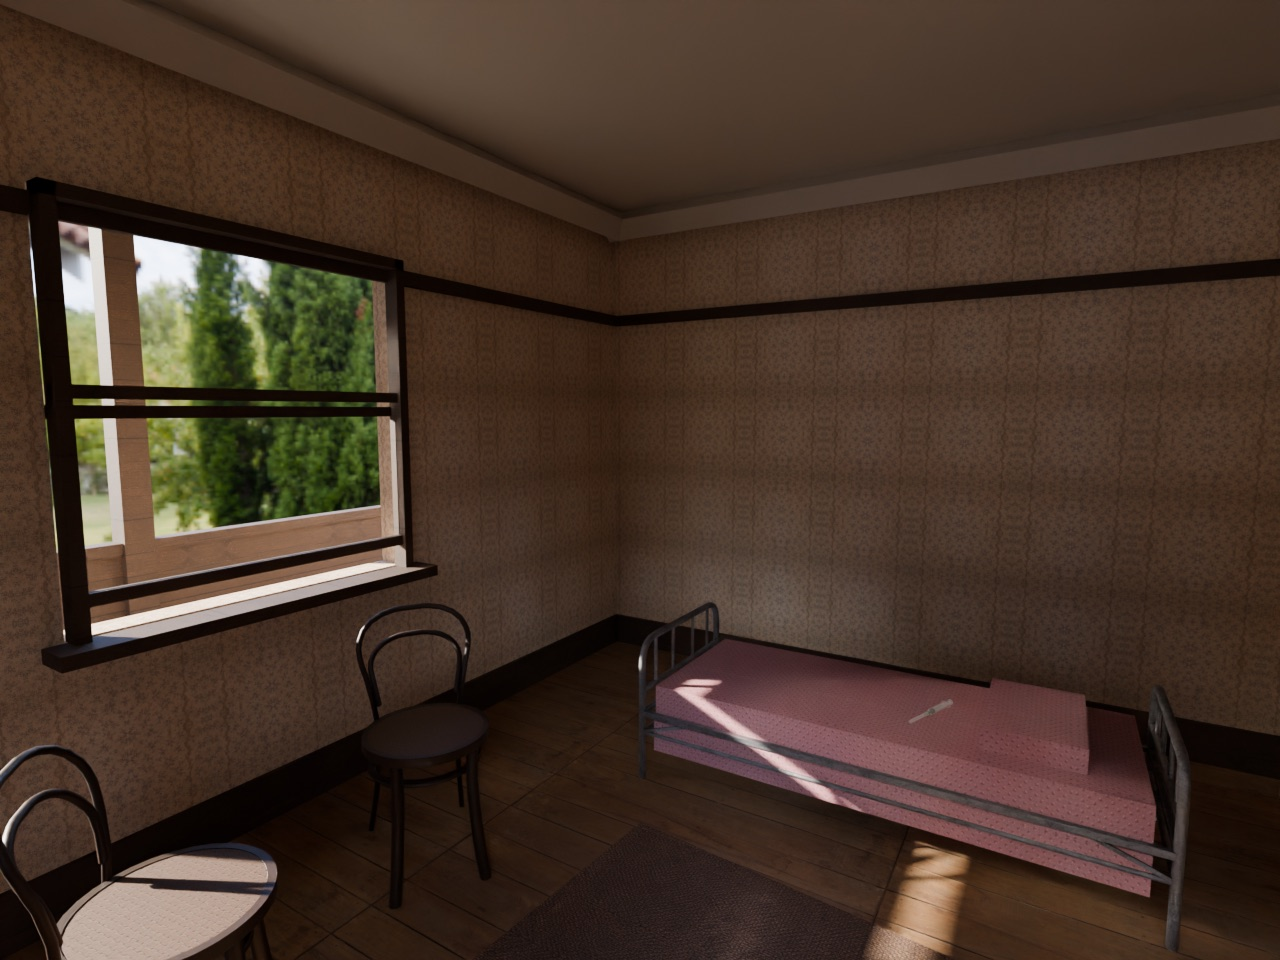
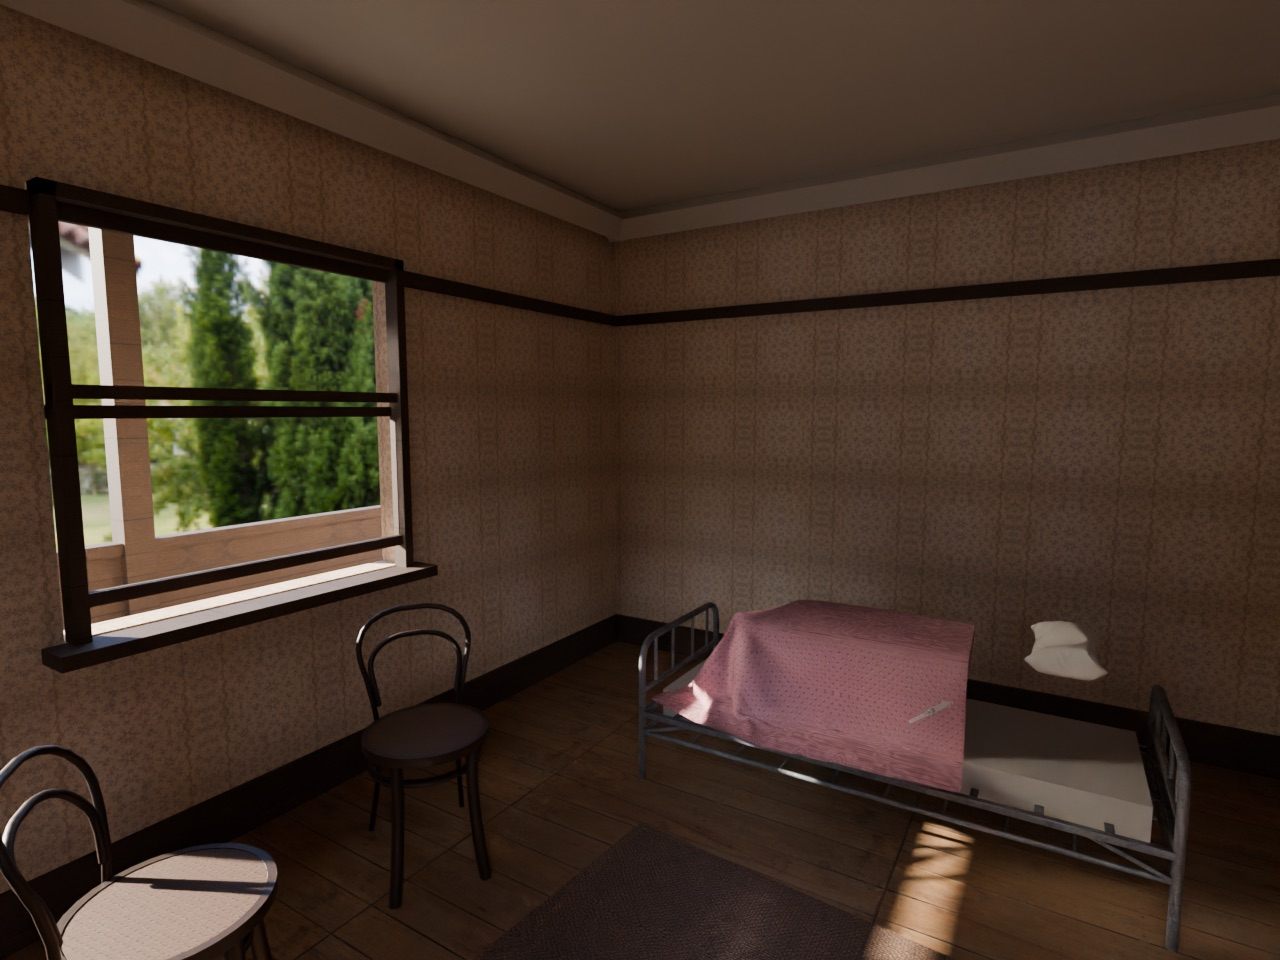
Bedding is sourced cloth, not three boxes
The bed was the worst thing in the room. A mattress, a drop and a pillow as
boxes gave it a pink lid, and it is the first thing the eye goes to from the
doorway. Bedding is cloth and cloth is folds; a box has no folds and no amount
of texture buys them.

So `bedding.glb`: the blanket and the pillow lifted out of Sketchfab's Messy Bed
(lucaboechat, CC-BY), with the timber frame it came on thrown away. It drapes,
it creases, and it hangs over the side of the sourced iron single.

Both meshes are retextured. The source blanket is blue; the room's is dusty rose
chenille, which is most of the colour in 1a-target.png and most of what bounces
warm light back onto the wall behind the bed.

Three things it needed, all found by rendering it:

- A mattress under it. The sourced blanket came off a bed that had one and
  drapes as though it still does; on bare springs it sagged into the frame and
  the bed read as a hammock. It is a box, and a box is right for a mattress
- Scaling on whichever of length or width binds first. Length alone put the
  spread a hand's width proud of the frame on both sides and the pillow hanging
  off the head
- Throwing it toward the room rather than centring it. It is a spread off a
  messy bed, so centring it left a bare strip of ticking down exactly the side
  the player walks past

Ticking is dark on purpose. At a plausible mattress grey it caught the 3pm sun
and read as a white slab, which is the same failure as the box in a new colour.
[…]

Changed region(s): [[0.5, 0.625, 0.9062, 0.9688], [0.9375, 0.9375, 0.9688, 0.9688]]

diff --git a/tools/blender/build_room1a.py b/tools/blender/build_room1a.py
@@ -455,44 +455,87 @@ FURNITURE = {
 }
 
 
-def build_bedding(bed_holder, spread):
+def build_bedding(bed_holder, spread, linen, ticking):
     """
-    Mattress and spread, sized off the sourced frame rather than off a number.
+    The spread and the pillow, sourced, sized off the frame rather than a number.
 
-    The frame came in as bare bedsprings and the room needs what is on them:
-    a dusty rose chenille spread is most of the colour in this photograph, and
-    it is what bounces warm light back onto the wall behind the bed. Leaving the
-    bed empty would bake a room with a hole in the middle of it.
+    The first pass at this was three boxes and the bed read as a slab with a
+    pink lid, which is the one thing in the room the eye goes to. Bedding is
+    cloth and cloth is folds; a box has no folds and no amount of texture buys
+    them.
+
+    So it is `bedding.glb`, which is the blanket and the pillow lifted out of a
+    sourced messy bed and the timber frame it came on thrown away. It drapes
+    over the sides, which is why it is measured against the frame and not given
+    a size: the frame is the sourced iron single and the drop has to clear it.
+
+    Both meshes are retextured. The source blanket is blue and the room's is
+    dusty rose chenille, which is most of the colour in the target photograph
+    and most of what bounces warm light back onto the wall behind the bed.
 
     Crystal still comes from `crystal.ts` at runtime and is deliberately not
     here. She is not part of the room and she must not be baked into it.
     """
     lo, hi = world_bounds(bed_holder.children_recursive)
-    inset = 0.03
-    # The springs sit a little under half way up the frame and the mattress goes
-    # on top of them, not through them. Thin: a mattress and a chenille drop at
-    # 0.22 each is 0.44 of pink and the bed reads as a slab.
+    # The springs sit a little under half way up the frame. Bedding goes on top
+    # of them, not through them.
     springs = lo.z + (hi.z - lo.z) * 0.42
-    top = springs + 0.17
+
+    before = {o.name for o in bpy.data.objects}
+    bpy.ops.import_scene.gltf(filepath=f"{SOURCED}/bedding.glb")
+    new = [o for o in bpy.data.objects if o.name not in before]
+
+    holder = bpy.data.objects.new("bedding", None)
+    bpy.context.scene.collection.objects.link(holder)
+    for r in [o for o in new if o.parent is None]:
+        r.parent = holder
+    bpy.context.view_layer.update()
+
+    # Scale on whichever of length or width binds first. Length alone put the
+    # spread a hand's width wider than the frame on both sides and the pillow
+    # hanging off the head.
+    blo, bhi = world_bounds(new)
+    size = bhi - blo
+    fits = []
+    if size.y > 1e-6:
+        fits.append((hi.y - lo.y - 0.16) / size.y)
+    if size.x > 1e-6:
+        fits.append((hi.x - lo.x + 0.16) / size.x)
+    if fits:
+        holder.scale = (min(fits),) * 3
+    bpy.context.view_layer.update()
+
+    # A mattress under it, because the sourced blanket came off a bed that had
+    # one and drapes as though it still does. On bare springs it sags into the
+    # frame and the bed reads as a hammock.
     mattress = cube(
         "mattress",
-        (lo.x + inset, lo.y + 0.08, springs),
-        (hi.x - inset, hi.y - 0.08, top),
+        (lo.x + 0.10, lo.y + 0.08, springs),
+        (hi.x - 0.10, hi.y - 0.08, springs + 0.13),
     )
-    assign(mattress, spread)
-    drop = cube(
-        "spread",
-        (lo.x + inset - 0.015, lo.y + 0.08, springs - 0.13),
-        (hi.x - inset + 0.015, hi.y - 0.08, springs + 0.01),
+    assign(mattress, ticking)
+
+    blo, bhi = world_bounds(new)
+    mid = (blo + bhi) / 2
+    holder.location = (
+        # Over toward the room, not centred. The sourced spread is off a messy
+        # bed and it is thrown rather than made, so centring it leaves a bare
+        # strip of ticking down the side the player walks past.
+        holder.location.x + ((lo.x + hi.x) / 2 - mid.x) + 0.10,
+        # Back off the head end so the pillow sits on the bed and not past it.
+        holder.location.y + ((lo.y + hi.y) / 2 - mid.y) - 0.07,
+        holder.location.z + (springs + 0.12 - blo.z),
     )
-    assign(drop, spread)
-    pillow = cube(
-        "pillow",
-        (lo.x + 0.14, hi.y - 0.60, top),
-        (hi.x - 0.14, hi.y - 0.26, top + 0.09),
+    bpy.context.view_layer.update()
+
+    # Sorted by size: the blanket is the big one, the pillow is not.
+    meshes = sorted(
+        (o for o in new if o.type == "MESH"),
+        key=lambda o: -(o.dimensions.x * o.dimensions.y * o.dimensions.z),
     )
-    assign(pillow, spread)
-    return [mattress, drop, pillow]
+    for i, o in enumerate(meshes):
+        assign(o, spread if i == 0 else linen)
+    return holder
 
 
 def build_rug(carpet):
@@ -755,13 +798,15 @@ def build() -> None:
     boards = pbr_material("floorboards", "wood_planks", 1.5)
     carpet = tiled_material("carpet", f"{TEXTURES}/carpet-brown.jpg", 0.95, 1.4)
     spread = tiled_material("spread", f"{TEXTURES}/bedspread-rose.jpg", 0.9, 0.55, 1.15)
+    linen = flat_material("linen", (0.74, 0.70, 0.62), 0.88)
+    ticking = flat_material("ticking", (0.42, 0.38, 0.32), 0.94)
     glass = glass_material()
 
     build_shell(wallpaper, plaster, boards, timber)
     build_doors(timber)
     build_sash(timber, glass)
     placed = {slot: place(slot, spec) for slot, spec in FURNITURE.items()}
-    build_bedding(placed["bed"], spread)
+    build_bedding(placed["bed"], spread, linen, ticking)
     build_rug(carpet)
     build_verandah_proxy(timber)
 

diff --git a/docs/CREDITS.md b/docs/CREDITS.md
@@ -46,6 +46,7 @@ asset. What the game ships is the baked, Meshopt-compressed room out of step 6.
 | `lighter` | [Lighter (Game Model)](https://sketchfab.com/models/d593d46b2ad240d5a482ad6944bc3db3) | Michael Makivic | CC-BY 4.0 | `d593d46b2ad240d5a482ad6944bc3db3` |
 | `magazines` | [Newspaper Stack](https://sketchfab.com/models/c4311a0b918643af97904e10c7a34efc) | karlwirbelwind | CC-BY 4.0 | `c4311a0b918643af97904e10c7a34efc` |
 | `syringe` | [Disposable Syringe 2ml Set](https://sketchfab.com/models/4cdb3198b4284144b9722fe4cde5462b) | joezeffdesign | CC-BY 4.0 | `4cdb3198b4284144b9722fe4cde5462b` |
+| `bedding` | [Messy Bed](https://sketchfab.com/models/aebc9bae5a4d459494d1e5de76658d5a) | lucaboechat | CC-BY 4.0 | `aebc9bae5a4d459494d1e5de76658d5a` |
 
 ### What each one is, and what it is for
 
@@ -62,6 +63,7 @@ asset. What the game ships is the baked, Meshopt-compressed room out of step 6.
 | `lighter` | 0.5k | centimetres | Disposable plastic. Period correct, a Zippo would not be |
 | `magazines` | 2.1k | millimetres | Stack of printed matter. Carries the authored `magazines` texture |
 | `syringe` | 15.5k | centimetres | Disposable plastic, not a glass and steel antique. 1994 |
+| `bedding` | 33k | source units | The blanket and the pillow only. Its timber frame was thrown away and it goes on the sourced iron one. Retextured to dusty rose |
 
 **Nothing is at a consistent scale and that is normal for Sketchfab.** Three of
 them are in metres, the rest are in inches, centimetres or millimetres. Every
